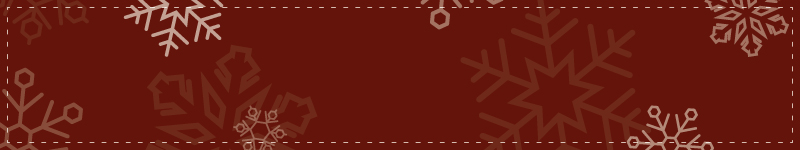
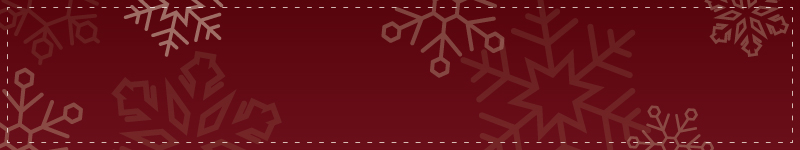
Use less expected colours.

diff --git a/custom/series/holidays/styles.css b/custom/series/holidays/styles.css
@@ -6,12 +6,13 @@
 .holidays p.intro:first-letter, 
 .holidays p.float-left + h3 + p:first-letter, 
 .holidays .panel p:first-of-type:first-letter {
-    color: #718295;
+    color: #5383A0;
+    text-shadow: 2px 2px 2px #fff;
     font-family: "Elsie Swash Caps", cursive;
-    text-shadow: none;
-    font-size: 80px;
-    margin-right: 10px;
-    margin-top: -10px;
+    text-shadow: 3px 0px 0px #FFF, 5px 0px 0px #FFF, 7px 1px 0px #5383A0;
+    font-size: 128px;
+    margin-right: 11px;
+    margin-top: -5px;
 }
 .holidays .panel p:first-of-type:first-letter {
     font-size: 60px;
@@ -19,20 +20,12 @@
     margin-top: -15px;
 }
 
-.featured-series.holidays > p:first-of-type:first-line, 
-.holidays .entry-content > p:first-of-type:first-line, 
-.holidays p.intro:first-line,
-.homepage .holidays .panel p:first-of-type:first-line {
-    color: #718295;
-    font-family: "Elsie Swash Caps", cursive;
-    font-size: 2em;
-}
 
 
 /* Intro panel */
 .column .parent-intro {
     font-style: normal;
-    color: #718295;
+    color: #5383A0;
     font-family: "Elsie Swash Caps", cursive;
     font-size: 2.6em;
     line-height: 1.2em;
@@ -60,17 +53,17 @@
 
 
 /* General styles */
-.holidays .entry-content a, .featured-series.holidays a {color: #466545;}
+.holidays .entry-content a, .featured-series.holidays a {color: #72151D;}
 
 .holidays .entry-content header {
-    background: #9c0 url('snowy-bg.jpg') no-repeat;
+    background: #9c0 url('snowy-bg.png') no-repeat;
     padding: 10px 0;
     height: 150px;
     box-sizing: border-box; 
     text-align: center; 
 }
 .holidays header h3, .holidays .entry-content > h3, .holidays .entry-content section:not(.related-posts) h3 {
-    color: #fff;
+    color: #5383A0;
     font-family: "Elsie Swash Caps", cursive;
     font-size: 2.4em;
 }
@@ -93,13 +86,13 @@
     margin: 20px 40px;
 }
 
-.holidays h4 {border-color: #466545;}
+.holidays h4 {border-color: #5383A0;}
 
-.holidays h2, .holidays .entry-content h4 a, .holidays h4 {color: #455465;}
+.holidays h2, .holidays .entry-content h4 a, .holidays h4 {color: #5383A0;}
 
 .holidays .read-more a {
-    color: #e4e2cf;
-    background-color: #466545;
+    color: #fff;
+    background-color: #72151D;
 }
 
-.holidays .read-more a:hover {background-color: #455465;}
+.holidays .read-more a:hover {background-color: #521219;}
